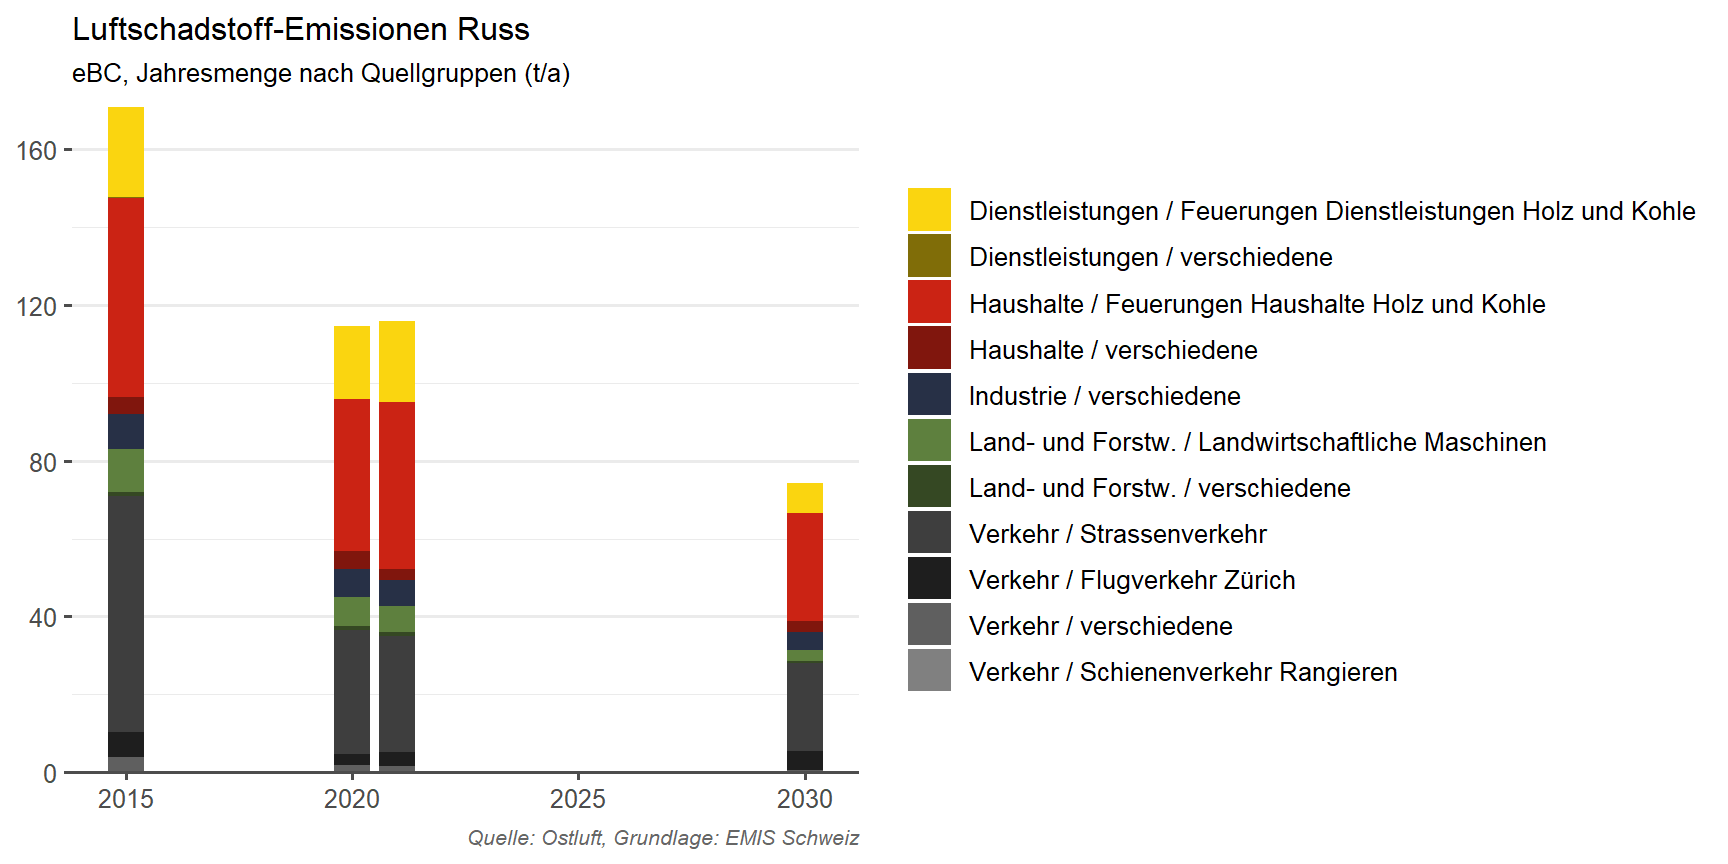
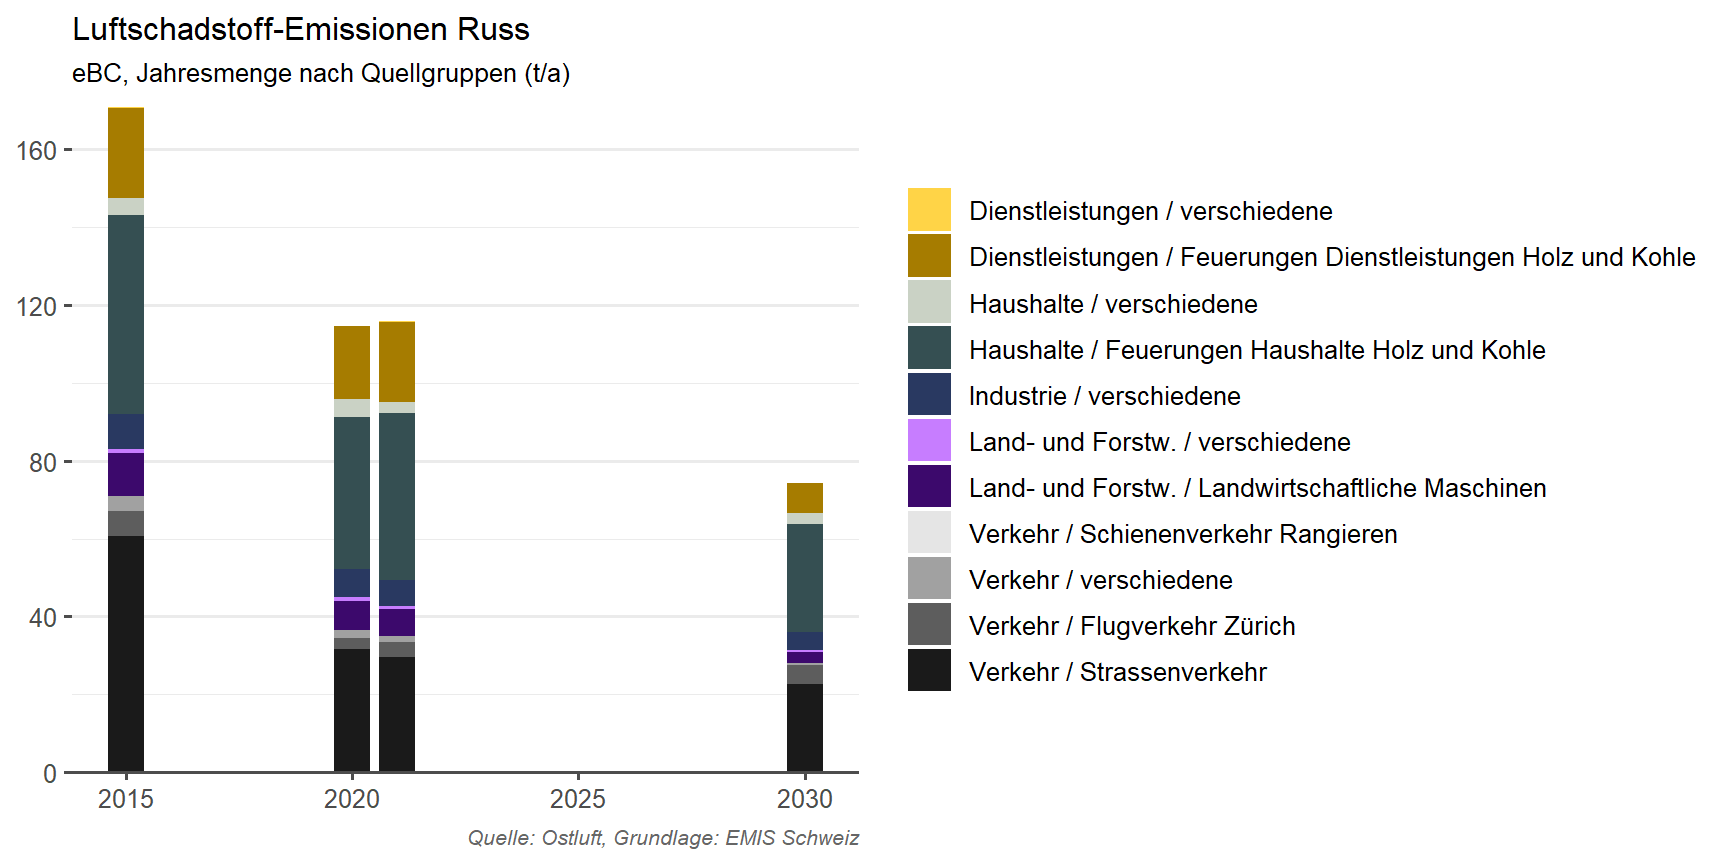
fixed emission color palettes

diff --git a/docs/Gesundheitsfolgen.html b/docs/Gesundheitsfolgen.html
@@ -176,7 +176,7 @@ weitere Gesundheitsfolgen
 <i class="callout-icon"></i>
 </div>
 <div class="callout-title-container flex-fill">
-Gesundheitsfolgen unterschiedlicher Schadstoffe sollten nicht aufsummiert werden
+Gesundheitsfolgen unterschiedlicher Schadstoffe können nicht aufsummiert werden
 </div>
 <div class="callout-btn-toggle d-inline-block border-0 py-1 ps-1 pe-0 float-end"><i class="callout-toggle"></i></div>
 </div>
@@ -198,7 +198,7 @@ Grundlagen
 </div>
 <div id="callout-3" class="callout-3-contents callout-collapse collapse">
 <div class="callout-body-container callout-body">
-<p>In der vorliegenden Berechnung richten wir uns nach dem etablierten epidemiologischen Vorgehen (vergleiche z.B. <a href="https://edoc.unibas.ch/96059/">Castro et al., 2023</a>). Die Ergebnisse sind somit methodisch konsistent mit anderen Studien in der Schweiz und international. Wir nutzen Dosis-Wirkungsbeziehungen und Schwellenwerte, die dem aktuellen Stand der Wissenschaft entsprechen und möglichst repräsentativ für die Schweizer Bevölkerung sind. Dafür richten wir uns nach den Empfehlungen der Schweizer <a href="https://www.swisstph.ch/de/projects/ludok">Dokumentationsstelle Luftverschmutzung und Gesundheit (LUDOK)</a>.</p>
+<p>In der vorliegenden Berechnung richten wir uns nach dem etablierten epidemiologischen Vorgehen (vergleiche z.B. <a href="https://edoc.unibas.ch/96059/">Castro et al., 2023</a>). Die Ergebnisse sind somit methodisch grundsätzlich vergleichbar mit anderen Studien in der Schweiz und international (methodische Abweichungen ergeben sich im Detail, so sind z.B. aufgrund unterschiedlicher verwendeter Grundlagen die Ergebnisse hier nicht 1:1 konsistent mit denen des <a href="https://www.are.admin.ch/are/de/home.html">Bundesamtes für Raumentwicklung ARE</a> in Bezug auf die <a href="https://www.are.admin.ch/are/de/home/mobilitaet/grundlagen-und-daten/kosten-und-nutzen-des-verkehrs.html">Auswirkungen durch den Verkehr</a>). Wir nutzen Dosis-Wirkungsbeziehungen und Schwellenwerte, die dem aktuellen Stand der Wissenschaft entsprechen und möglichst repräsentativ für die Schweizer Bevölkerung sind. Dafür richten wir uns nach den Empfehlungen von Expert/innen der Schweizer <a href="https://www.swisstph.ch/de/projects/ludok">Dokumentationsstelle Luftverschmutzung und Gesundheit (LUDOK)</a>.</p>
 <p>In den Grafiken wird der wissenschaftlich und statistisch am sichersten abgestützte Wert als Balken dargestellt. Die Unsicherheitsbereiche (vertikale Linien) enthalten zwei Unsicherheitsbeträge: 1) die statistische Unsicherheit der verwendeten Dosis-Wirkungsbeziehungen (95% Vertrauensbereich) sowie 2) die Verwendung alternativer Schwellenwerte, nämlich der minimal auftretenden Luftbelastung als unterste Wirkschwelle, da gemäss dem aktuellen <a href="https://www.who.int/publications/i/item/9789240034228">wissenschaftlichen Synthesebericht der Weltgesundheitsorganisation</a> auch unterhalb der WHO-Richtwerte Gesundheitsauswirkungen durch Luftverschmutzung wahrscheinlich sind.</p>
 <p>Betrachtet man die Veränderung der Gesundheitswirkungen durch Luftbelastung über mehrere Jahre, so wird diese einerseits durch die Entwicklung der Luftqualität und andererseits durch die Veränderung der Anzahl und räumlichen Verteilung der Wohnbevölkerung beeinflusst.</p>
 </div>

diff --git a/docs/about.html b/docs/about.html
@@ -160,7 +160,7 @@ ul.task-list li input[type="checkbox"] {
     <div>
     <div class="quarto-title-meta-heading">Published</div>
     <div class="quarto-title-meta-contents">
-      <p class="date">19. December 2024</p>
+      <p class="date">03. January 2025</p>
     </div>
   </div>
   
